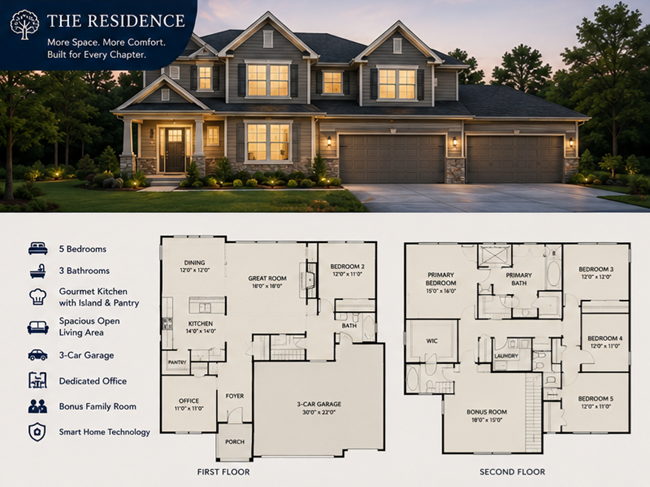
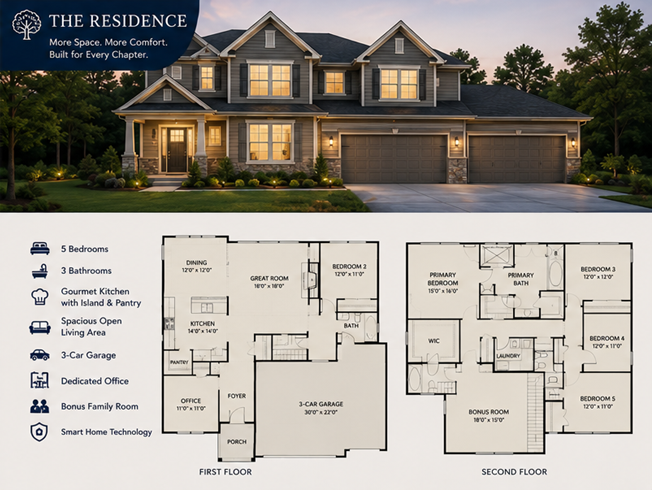
Changes to main page
Thank you, Ryan!

Changed region(s): [[0.0, 0.0, 1.0, 0.9856], [0.4615, 0.8008, 0.5231, 0.8624]]

diff --git a/styles.css b/styles.css
@@ -1,61 +1,123 @@
-
-#hero{
-    display: grid;
-    justify-content: right;
-    height: 300px;
-    width: 1200px;
-    grid-template-columns: 1fr 1fr;
-    
+@font-face {
+    font-family: 'Montserrat';
+    src: url('fonts/Montserrat-VariableFont_wght.ttf') format('truetype');
 }
 
-body {
-    background-color: #003049;
-    display: grid;
-    margin: 0;
-    justify-content: center;
-    max-width: 1500px;
-
+* {
+    box-sizing: border-box;
 }
 
+:root {
+    --blue: #003049;
+    --red: #d62828;
+    --orange: #f77f00;
+    --yellow: #fcbf49;
+
+    --grey: #eee;
+
+    --heading-font: 'Montserrat', serif;
+    --text-font: 'Roboto', sans-serif;
+
+    --outline: var(--blue);
+}
+
+h1, h2, h3, h4, h5, h6 {
+    font-family: var(--heading-font);
+}
+h1, h3, p {
+    color: var(--yellow);
+}
+h2, li, #perfect-for p {
+    color: var(--blue);
+}
+
+p, li, a {
+    font-family: var(--text-font);
+}
+
+/* ---------------------------------------------- */
 header {
     display: flex;
     justify-content: space-between;
-    height: 200px;
-    width: 1200px;
-    background-color: #f77f00;
-    
+    background-color: var(--orange);
+    outline: 1px solid var(--outline);
+    margin-bottom: 1px;
+}
+
+header img {
+    max-height: 100px;
 }
 
 nav {
-    font-size: 25px;
-    display: grid;
-    align-items: center;
-    grid-template-columns: 1fr 1fr 1fr;
+    margin: auto 10px;
 }
 
 nav a {
     text-decoration: none;
-    color: white;
+    color: var(--grey);
+    padding: 30px;
+}
+nav a:hover {
+    color: var(--red);
+    text-decoration: underline;
 }
 
-h5 {
-    font-family: 'Montserrat', sans-serif;
-    color: #fcbf49;
+body {
+    max-width: 1200px;
+    margin: 10px auto;
+    background-color: var(--blue);
 }
-p {
-    font-family: 'Roboto', sans-serif;
-    color: #fcbf49;
-}
+
 footer {
-    color: #fcbf49;
-    background-color: #f77f00;
+    margin: 0;
+    background-color: var(--orange);
+    outline: 1px solid var(--outline);
 }
-.msg {
-    background-color: #d62828;
+footer p {
+    margin: 0;
+    padding: 10px;
+    text-align: center;
 }
-.logo {
-    background-color: #f77f00;
-    border-radius: 60%;
-    height: 200px;
-    width: 250px;
+
+/* ---------------------------------------------- */
+
+main {
+    background-color: var(--grey);
+}
+
+.box {
+    outline: 1px var(--blue) solid; 
+    width: 80%;
+    margin: 15px;
+    padding: 20px;
+}
+.box img {
+    width: 100%;
+}
+section {
+    outline: 1px var(--blue) solid; 
+    padding: 20px;
+}
+#hero{
+    display: grid;
+    justify-content: right;
+    max-width: 1200px;
+    grid-template-columns: 1fr 1fr;
+    
+}
+#hero img {
+    width: 100%;
+}
+#two-homes {
+    display: flex;
+}
+#minis {
+    display: block;
+    text-align: center;
+}
+#minis-holder {
+    display: flex;
+}
+#mini {
+    display: block;
 }

diff --git a/index.html b/index.html
@@ -10,48 +10,80 @@
 <body>
     <div id="wrapper">
         <header>
-            <img class=logo src="images/logo.png" alt="logo">
+            <img class=img src="images/logo.png" alt="logo">
             <nav>
                 <a href="index.html">HOME</a>
                 <a href="estate.html">THE ESTATE</a>
                 <a href="residence.html">THE RESIDENCE</a>
             </nav>
         </header>
-        <div id="hero">
-            <section id="msg">
-                <h1>One Neighborhood.</h1>
-                <h1>Two Homes.</h1>
-                <p>Welcome to Dream Home Realty-where thoughtful design meets everyday comfort.</p>
-                <p>Our homes are all part of one beautifully planned neighborhood, offering a connected community and two distinct home designs to fit your lifestyle.</p>
+
+
+        <main>
+            <section id="hero">
+                <div>
+                    <h1>One Neighborhood.</h1>
+                    <h1>Two Homes.</h1>
+                    <p>Welcome to Dream Home Realty-where thoughtful design meets everyday comfort.</p>
+                    <p>Our homes are all part of one beautifully planned neighborhood, offering a connected community and two distinct home designs to fit your lifestyle.</p>
+                </div>
+                <img src="images/figueorabirdview.png">
+                
             </section>
-            <img src="images/figueorabirdview.png">
-        </div>
-    </div>
-    <section class="msg">
-        <h5>A COMMUNITY DESIGNED FOR LIVING</h5>
-        <h5>Connected & Peaceful</h5>
-        <p>Enjoy scenic views, green spaces, and walking trails.</p>
-        <h5>Our Neighborhood</h5>
-        <p>All homes are connected within one close-knit community.</p>
-        <h5>Safe & Secure</h5>
-        <p>A gated neighborhood with modern security features</p>
-        <h5>Premium Amenities</h5>
-        <p>Resort-style amenities for relaxation and everyday enjoyment.</p>
-    </section>
-    <section class="msg">
-        <h5>TWO DISTINCT HOMES.</h5>
-        <h5>BUILT FOR DIFFERENT LIFESTYLES.</h5>
-        <p>Whether you're looking for low-maintenance living or room to grow, we have the perfect home for you. Explore our two home designs.</p>
-    </section>
-    <section class="msg">
-    <h5>DREAM HOME REALTY</h5>
-    <p>Building more than homes-we build communities where life happens.</p>
-    <h5>GET IN TOUCH</h5>
-    <p>(555) 123-4567</p>
-    <p>[email redacted]</p>
-    <p>123 Harmony Way</p>
-    <p>Lakeview, ST 12345</p>  
-    </section>
-    <footer>© 2024 Dream Home Realty. All rights reserved.</footer>
+                
+            <section class="msg" id="minis">
+                <h5>A COMMUNITY DESIGNED FOR LIVING</h5>
+                
+                    <div id="minis-holder">
+                        <div class="mini">
+                            <h5>Connected & Peaceful</h5>
+                            <p>Enjoy scenic views, green spaces, and walking trails.</p>
+                        </div>
+                        <div class="mini">
+                            <h5>Our Neighborhood</h5>
+                            <p>All homes are connected within one close-knit community.</p>
+                        </div>
+                        <div class="mini">
+                            <h5>Safe & Secure</h5>
+                            <p>A gated neighborhood with modern security features</p>
+                        </div>
+                        <div class="mini">
+                            <h5>Premium Amenities</h5>
+                            <p>Resort-style amenities for relaxation and everyday enjoyment.</p>
+                        </div>
+                    </div>
+            </section>
+
+            <section class="msg" id="two-homes">
+                <div>
+                    <h5>TWO DISTINCT HOMES.</h5>
+                    <h5>BUILT FOR DIFFERENT LIFESTYLES.</h5>
+                    <p>Whether you're looking for low-maintenance living or room to grow, we have the perfect home for you. Explore our two home designs.</p>
+                </div>
+                <div class="box">
+                    <img src="images/estate-view.png" alt="View of Estate">
+                    <h4>The Estate</h4>
+                    <p>Perfect for couples or individuals seeking simplicity and comfort.</p>
+                </div>
+                <div class="box">
+                    <img src="images/residence-view.png" alt="View of Residence">
+                    <h4>The Residence</h4>
+                    <p>Designed for families who need more space, more features, and more to live.</p>
+                </div>
+
+            </section>
+        </main>
+
+
+    <footer>
+        <h5>DREAM HOME REALTY</h5>
+        <p>Building more than homes-we build communities where life happens.</p>
+        <h5>GET IN TOUCH</h5>
+        <p>(555) 123-4567</p>
+        <p>[email redacted]</p>
+        <p>123 Harmony Way</p>
+        <p>Lakeview, ST 12345</p>  
+        <p>&copy; 2024 Dream Home Realty. All rights reserved.</p>
+    </footer>
 </body>
 </html>

diff --git a/copystyles.css b/copystyles.css
@@ -1,0 +1,91 @@
+
+:root {
+    --blue: #003049;
+    --red: #d62828;
+    --orange: #f77f00;
+    --yellow: #fcbf49;
+
+    --grey: #eee;
+
+    --heading-font: 'Montserrat', serif;
+    --text-font: 'Roboto', sans-serif;
+
+    --outline: var(--blue);
+}
+header {
+    display: flex;
+    justify-content: space-between;
+    background-color: var(--orange);
+    outline: 1px solid var(--outline);
+    margin-bottom: 1px;
+}
+header img {
+    max-height: 100px;
+}
+
+nav {
+    margin: auto 10px;
+}
+#hero{
+    display: grid;
+    justify-content: right;
+    height: 300px;
+    width: 1200px;
+    grid-template-columns: 1fr 1fr;
+    
+}
+h1 {
+    color: white;
+}
+body {
+    background-color: #003049;
+    display: grid;
+    margin: 0;
+    justify-content: center;
+    max-width: 1500px;
+
+}
+
+
+
+nav {
+    margin: auto 10px;
+}
+
+nav a {
+    text-decoration: none;
+    color: var(--grey);
+    padding: 30px;
+}
+nav a:hover {
+    color: var(--red);
+    text-decoration: underline;
+}
+
+h5 {
+    font-family: 'Montserrat', sans-serif;
+    color: #fcbf49;
+}
+p {
+    font-family: 'Roboto', sans-serif;
+    color: #fcbf49;
+}
+footer {
+    margin: 0;
+    background-color: var(--orange);
+    outline: 1px solid var(--outline);
+}
+footer p {
+    margin: 0;
+    padding: 10px;
+    text-align: center;
+}
+.msg {
+    background-color: #d62828;
+}
+.logo {
+    background-color: #f77f00;
+    border-radius: 60%;
+    height: 200px;
+    width: 250px;
+}

diff --git a/residence.html b/residence.html
@@ -36,7 +36,7 @@
                     <li>Large Backyard</li>
                 </ul>
             </div>
-            <img src="images/residence.PNG" alt="The Residence">
+            <img src="images/residence.png" alt="The Residence">
         </div>
 
         <div id="residence-details">
@@ -69,7 +69,7 @@
     </main>
 
     <footer>
-        <p>&copy; 2024 Dream Home Realty. All rights reserved.</p>
+        <p>&copy;2024 Dream Home Realty. All rights reserved.</p>
     </footer>
 </body>
 </html>

diff --git a/estate.html b/estate.html
@@ -19,7 +19,7 @@
         </header>
         <div id="hero"></div>
     </div>
-    <footer>© 2024 Dream Home Realty. All rights reserved.</footer>
+    <footer>&copy; 2024 Dream Home Realty. All rights reserved.</footer>
 
 </body>
 </html>